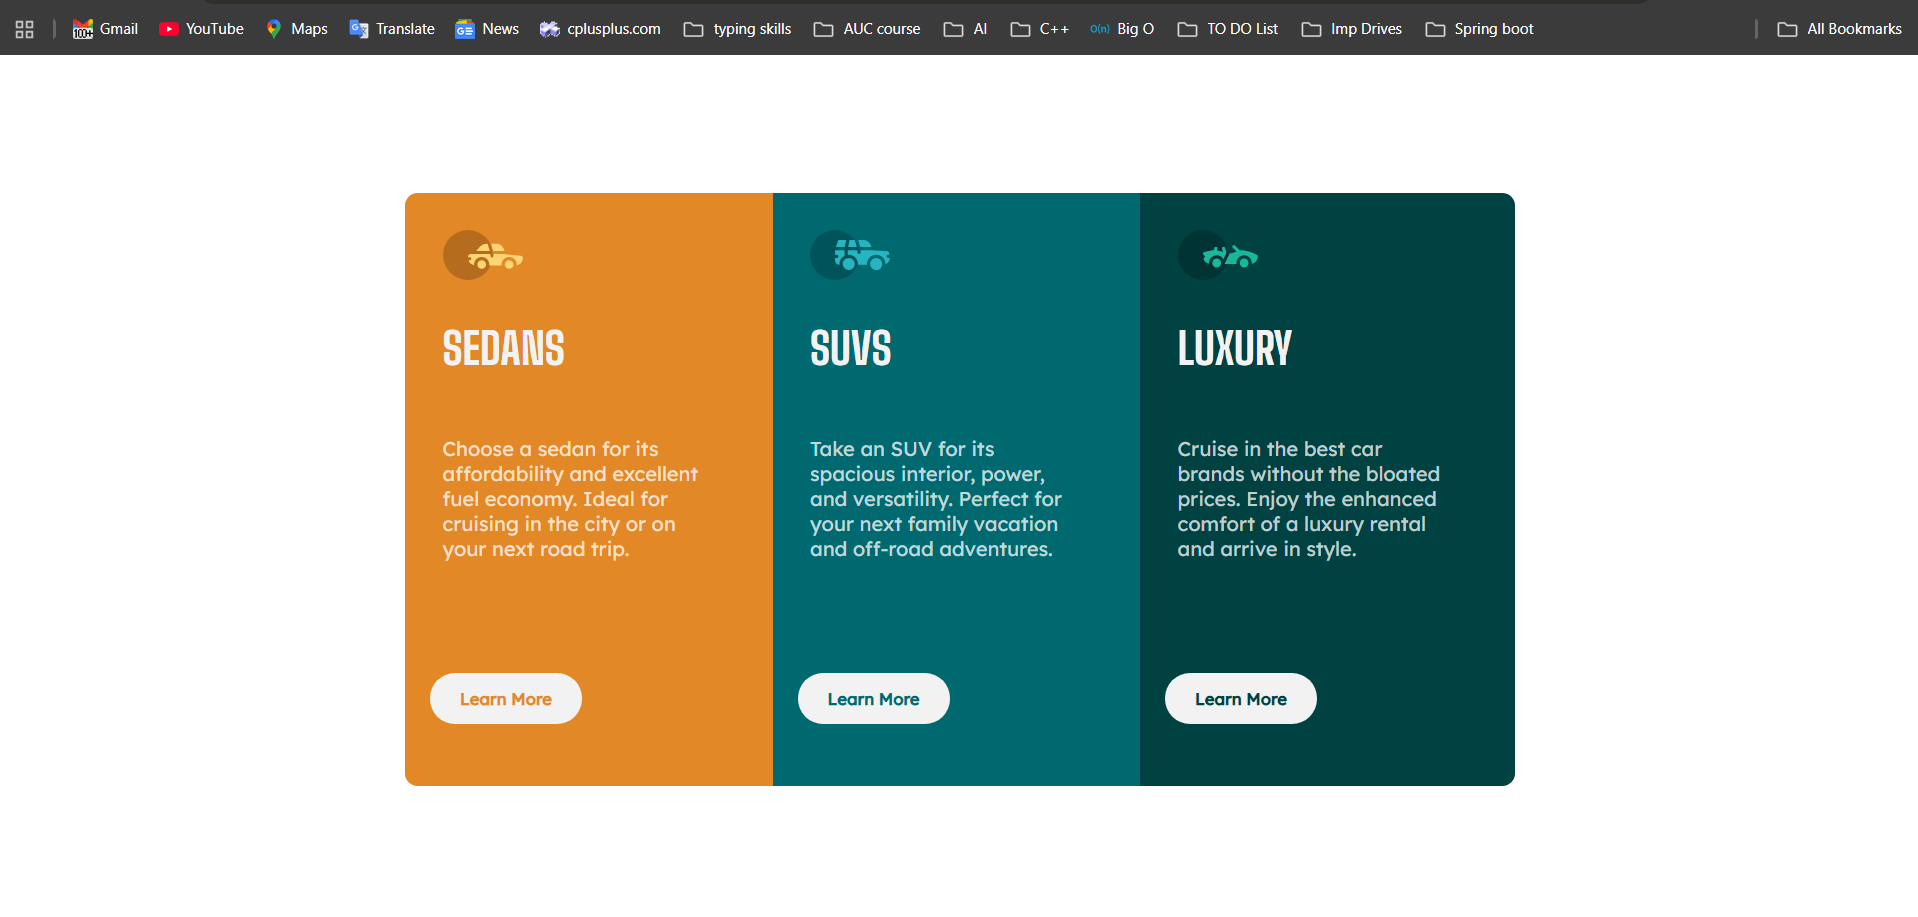
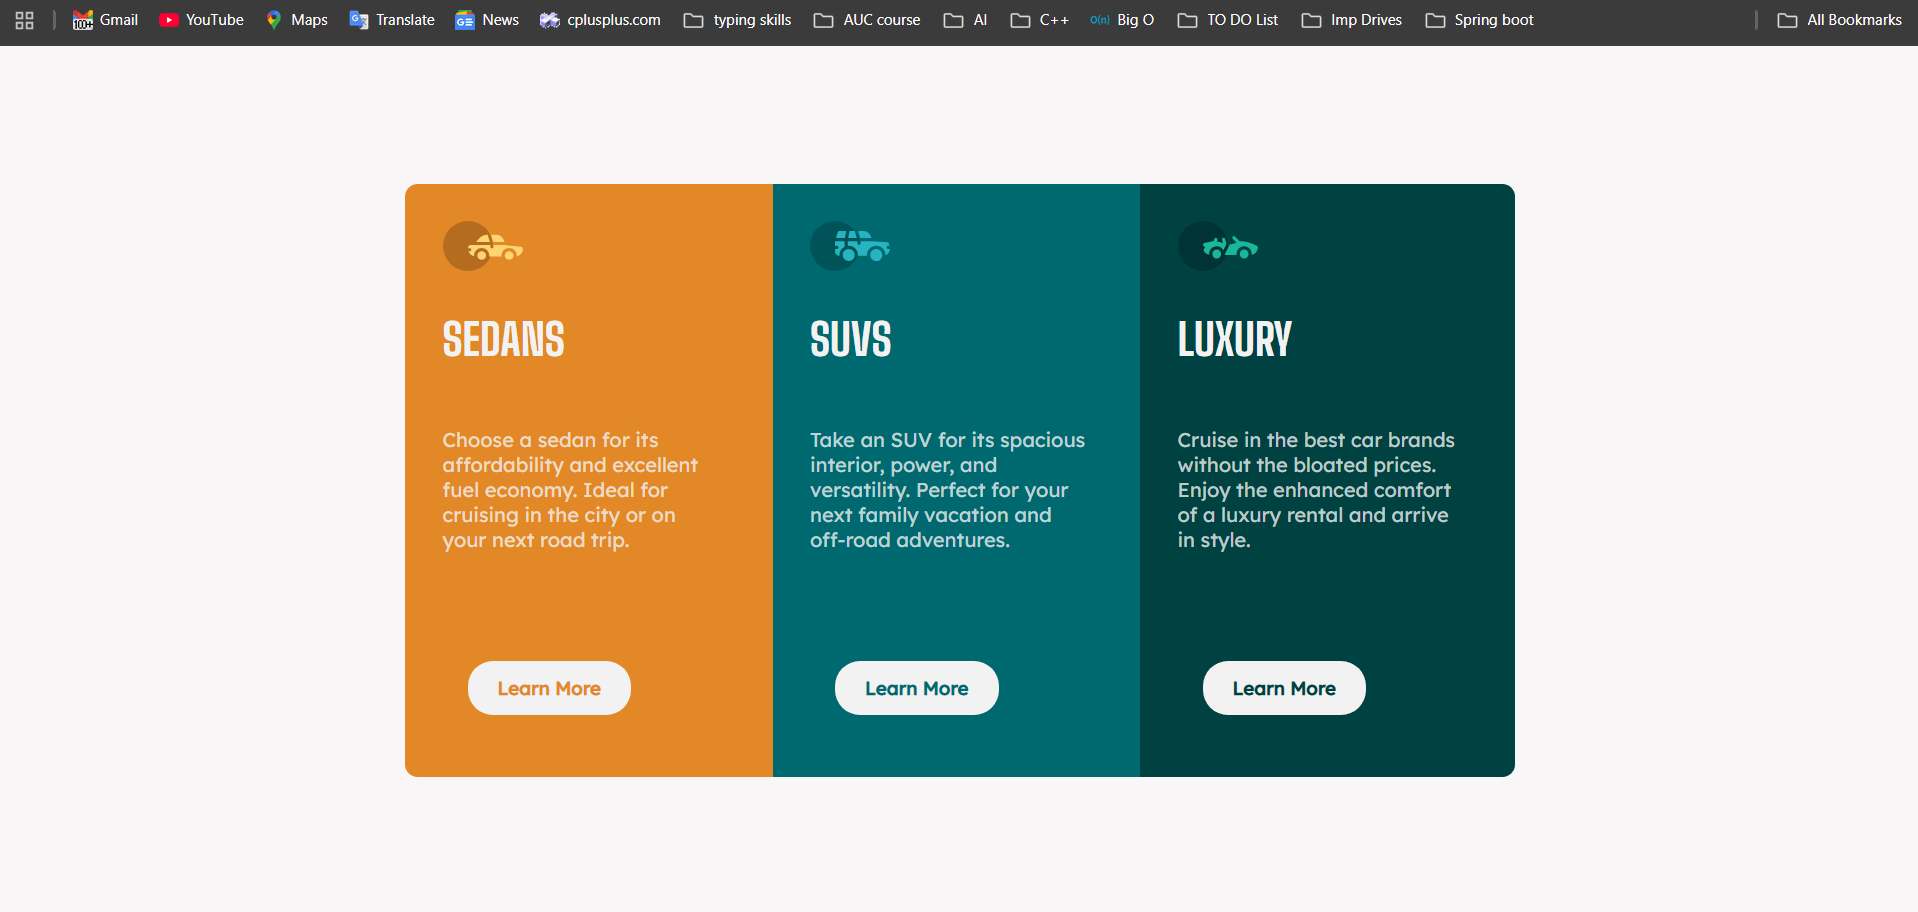
modify

diff --git a/style.css b/style.css
@@ -113,6 +113,12 @@ button:hover{
     color: var(--Green-950);
 }
 
+@media (max-width: 1000px) {
+    button {
+        margin-left: 7px;
+    }
+}
+
 @media (max-width: 600px) {
     main{
         width: 150px;
@@ -140,6 +146,6 @@ button:hover{
         font-size: 16px;
     }
     button {
-        margin-left: 10px
+        margin-left: 0px
     }
 }
